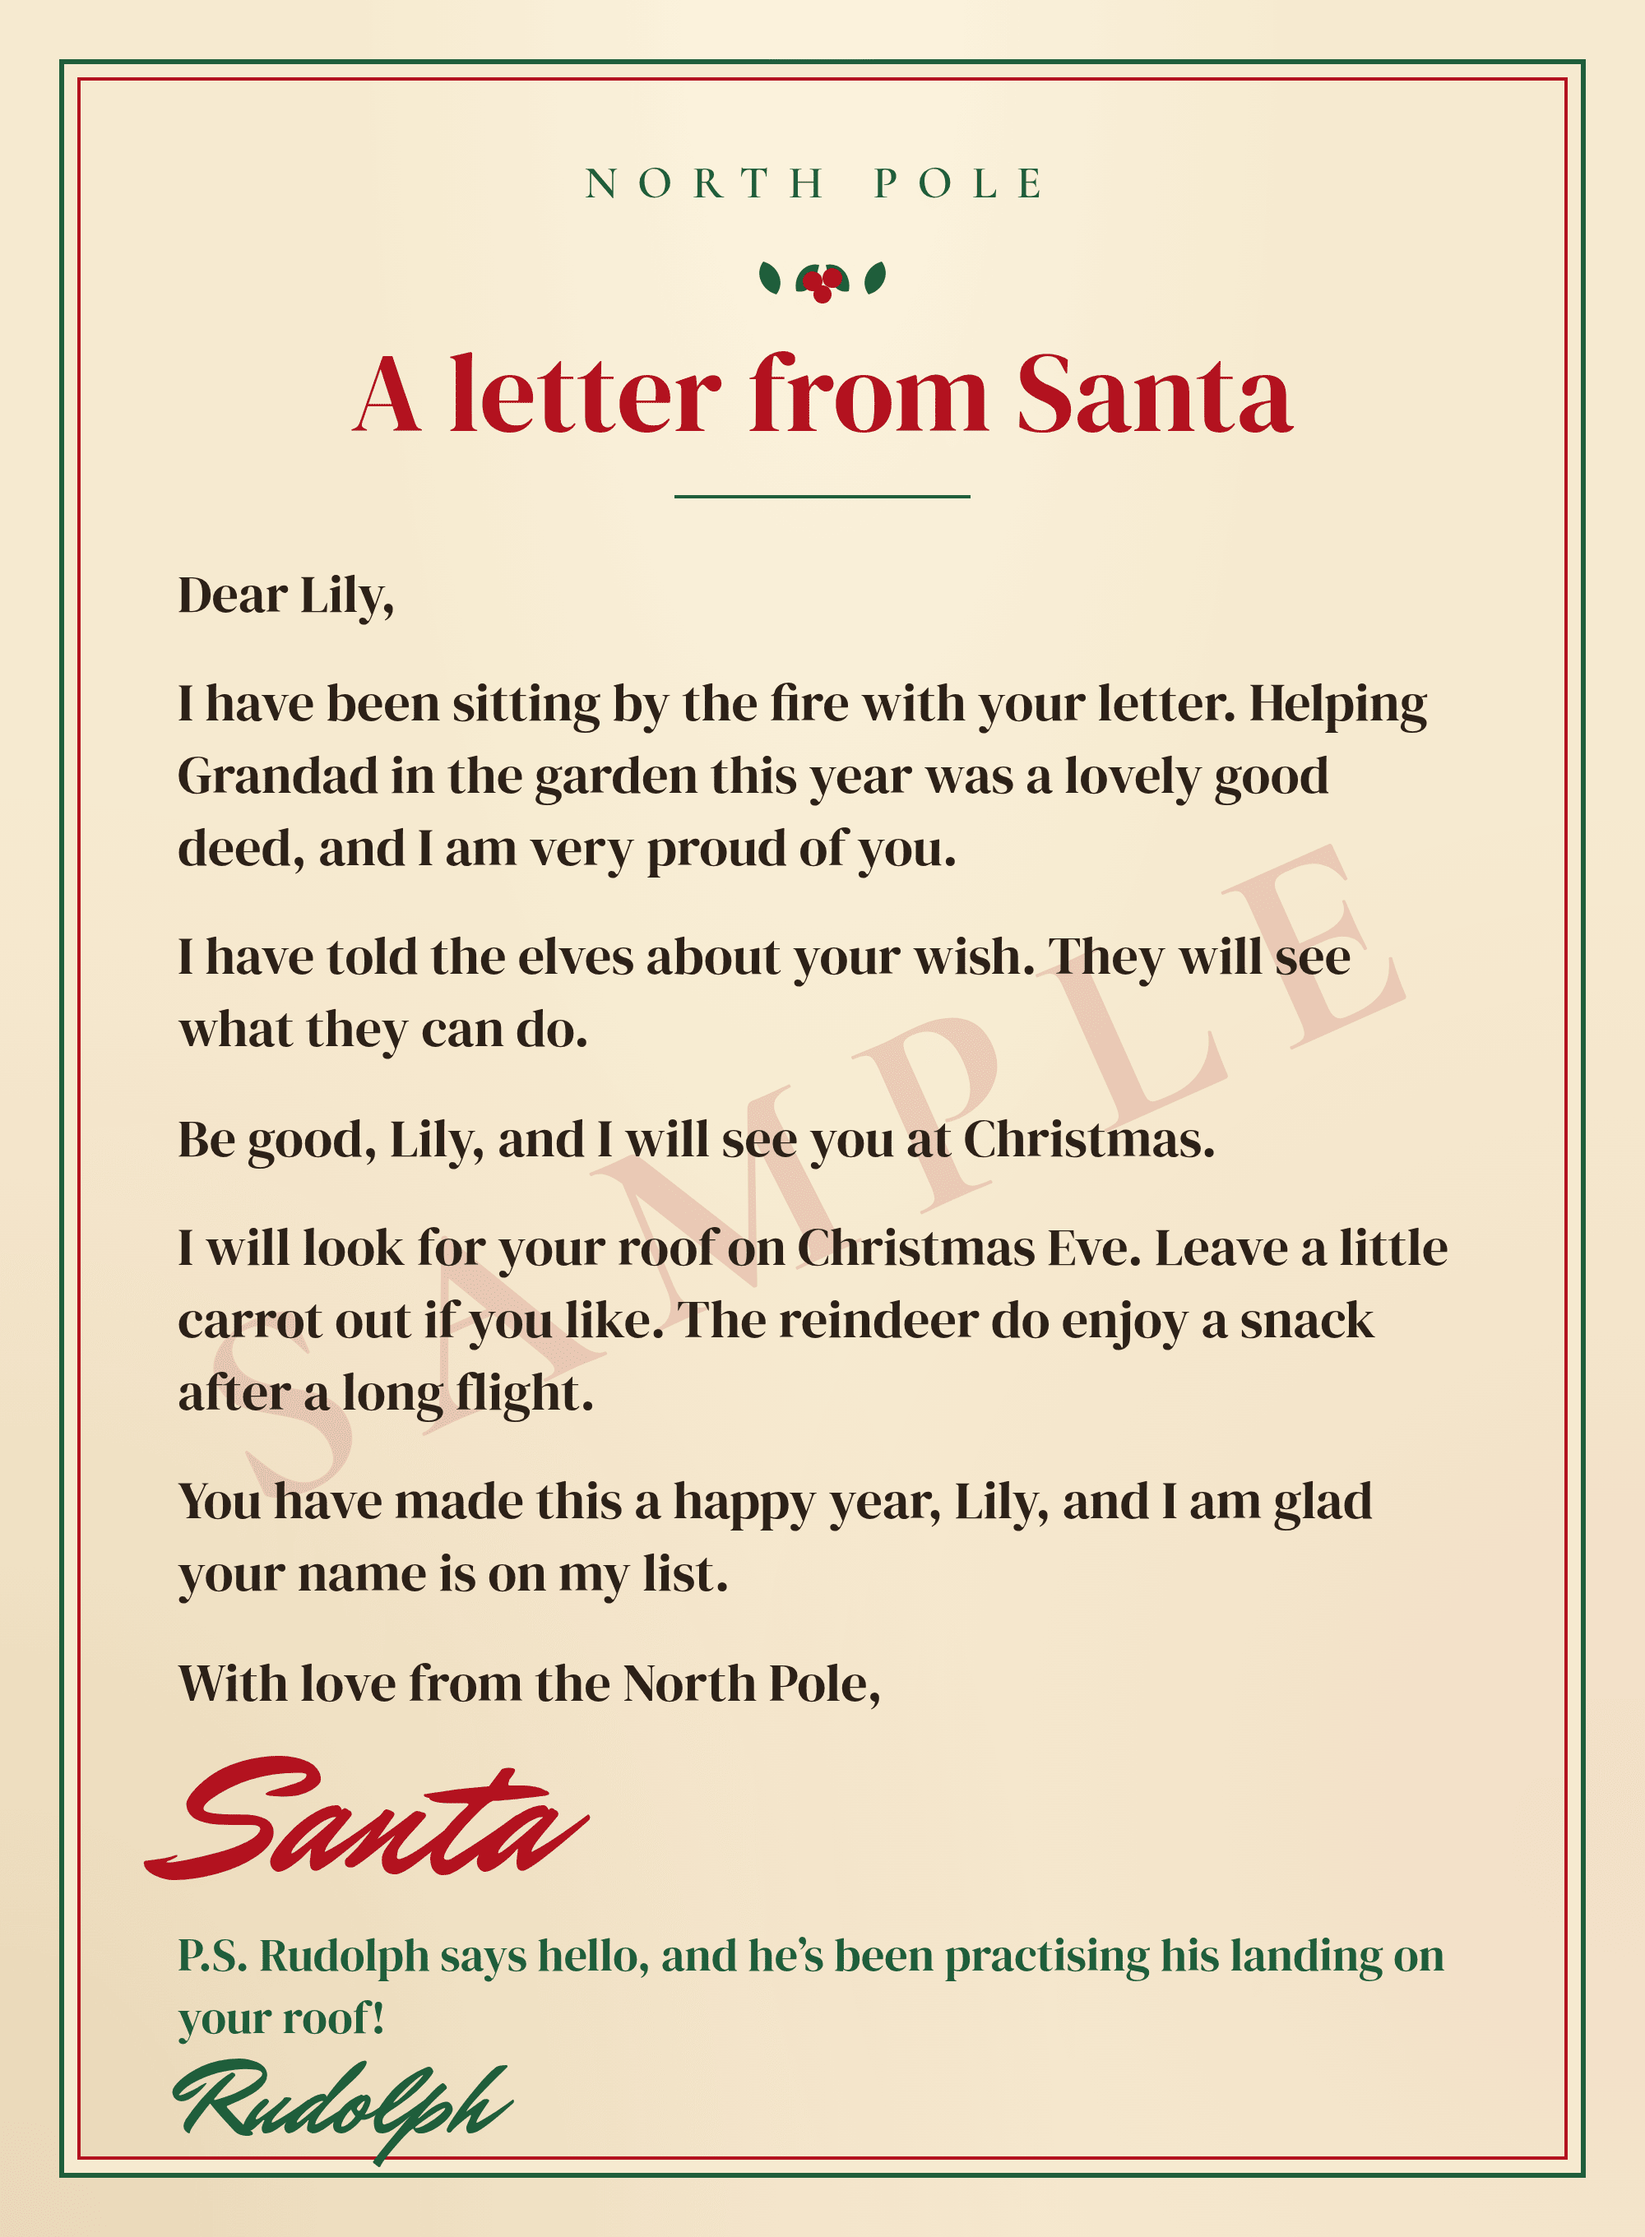
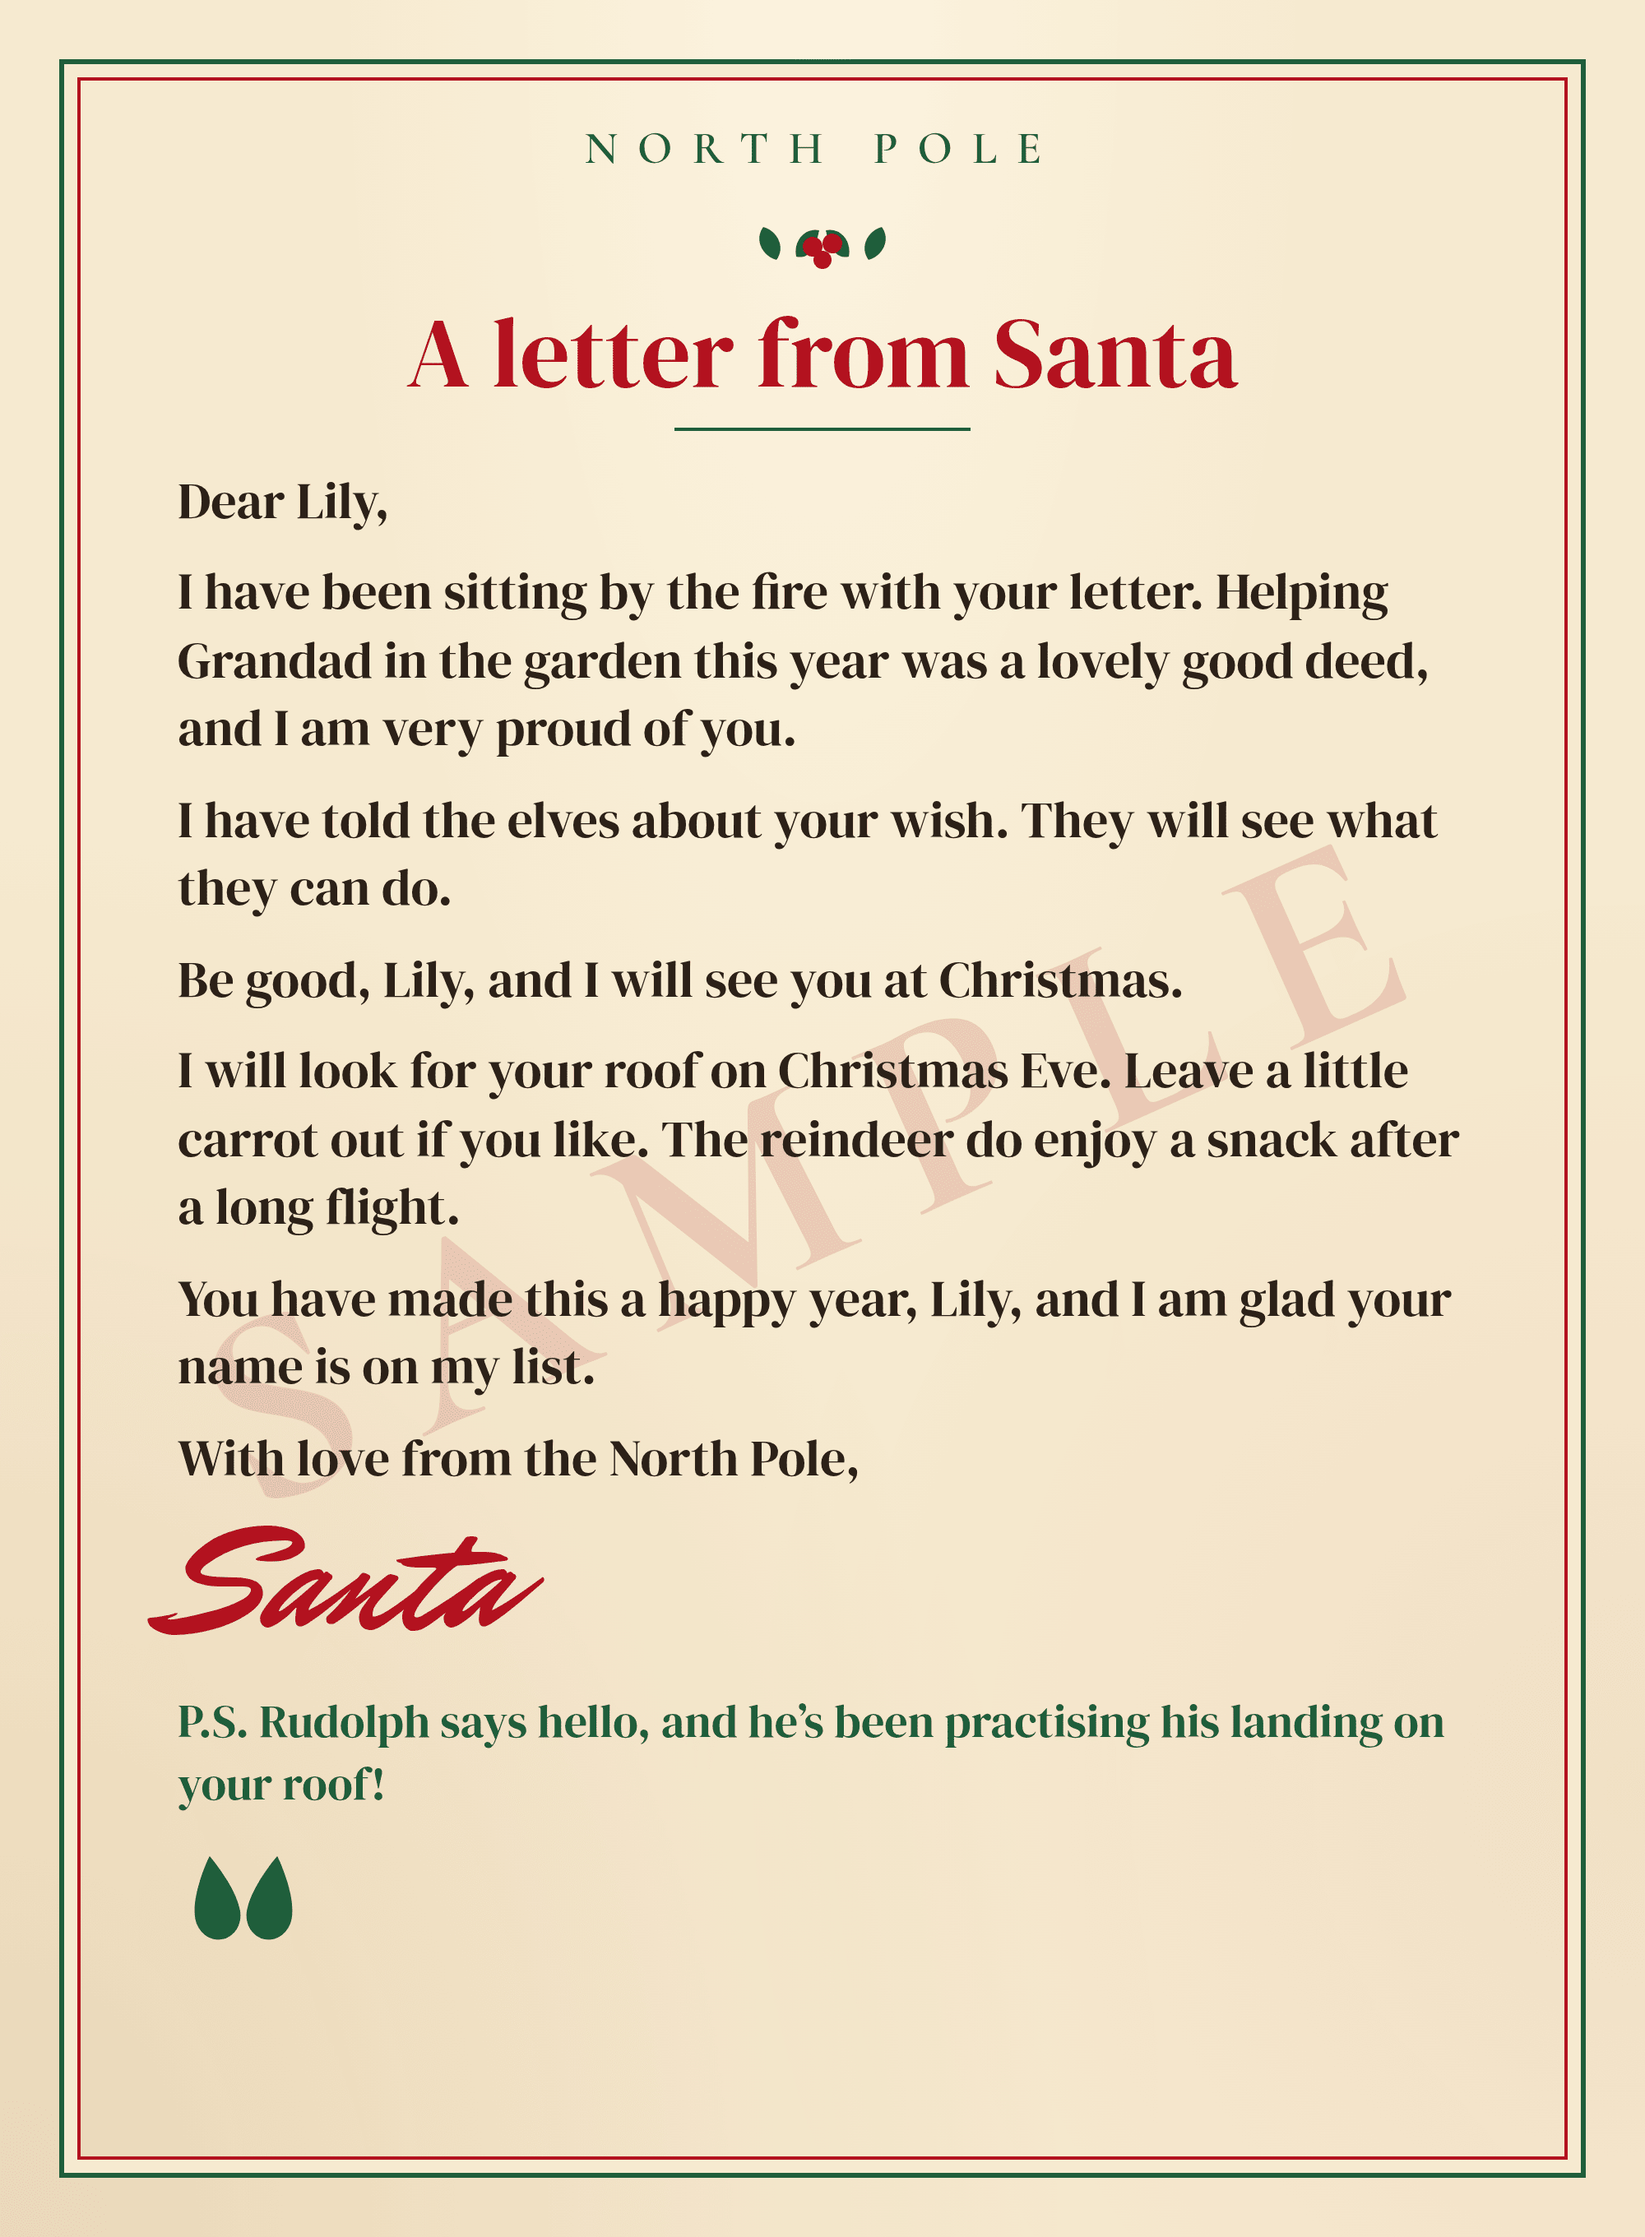
Replace Rudolph's signature with a hoof print
The sample letter keeps the P.S. and stamps a small cloven hoof beneath it, with clear space above the inner border.

diff --git a/design/letter.html b/design/letter.html
@@ -70,7 +70,7 @@
     .content {
       position: relative;
       z-index: 1;
-      padding: 92px 108px 80px;
+      padding: 72px 108px 118px;
       height: 100%;
     }
     .place {
@@ -93,21 +93,21 @@
       text-align: center;
       font-family: "DM Serif Display", serif;
       font-weight: 400;
-      font-size: 68px;
+      font-size: 60px;
       line-height: 1;
       color: #b3121f;
     }
     .rule {
       width: 180px;
       height: 2px;
-      margin: 28px auto 36px;
+      margin: 16px auto 22px;
       background: #1f5e3b;
     }
     p {
-      margin: 0 0 22px;
+      margin: 0 0 14px;
       font-family: "DM Serif Display", serif;
-      font-size: 32px;
-      line-height: 1.38;
+      font-size: 31px;
+      line-height: 1.34;
     }
     .signoff {
       margin-top: 6px;
@@ -118,23 +118,22 @@
     .name {
       margin: 4px 0 0;
       font-family: "Mr Dafoe", cursive;
-      font-size: 108px;
+      font-size: 96px;
       font-weight: 400;
       color: #b3121f;
       line-height: 1.05;
     }
     .ps {
-      margin: 8px 0 0;
+      margin: 16px 0 0;
       font-size: 28px;
       line-height: 1.35;
       color: #1f5e3b;
     }
-    .rudolph {
-      margin: 0;
-      font-family: "Mr Dafoe", cursive;
-      font-size: 64px;
-      color: #1f5e3b;
-      line-height: 1;
+    .hoof {
+      display: block;
+      width: 72px;
+      height: 78px;
+      margin: 18px 0 0 4px;
     }
   </style>
 </head>
@@ -166,7 +165,12 @@
         <p class="name">Santa</p>
       </div>
       <p class="ps">P.S. Rudolph says hello, and he’s been practising his landing on your roof!</p>
-      <p class="rudolph">Rudolph</p>
+      <svg class="hoof" viewBox="0 0 104 108" role="img" aria-label="A reindeer hoof print">
+        <g fill="#1f5e3b">
+          <path transform="rotate(-10 32 62)" d="M32 6c0 0-22 30-22 52a20 22 0 1 0 40 0C50 36 32 6 32 6z"/>
+          <path transform="rotate(10 72 62)" d="M72 6c0 0 22 30 22 52a20 22 0 1 1-40 0C54 36 72 6 72 6z"/>
+        </g>
+      </svg>
     </div>
   </article>
 </body>
